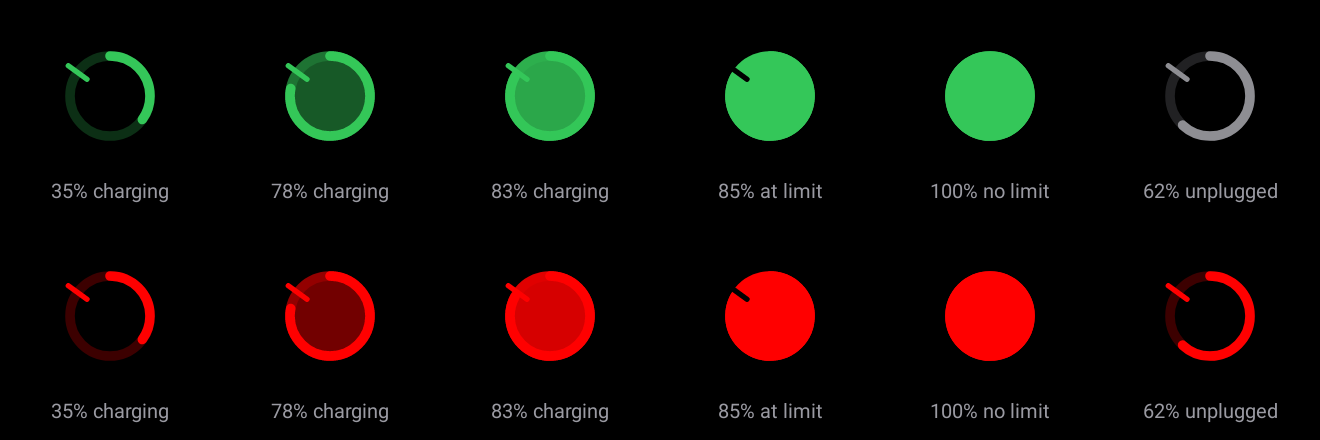
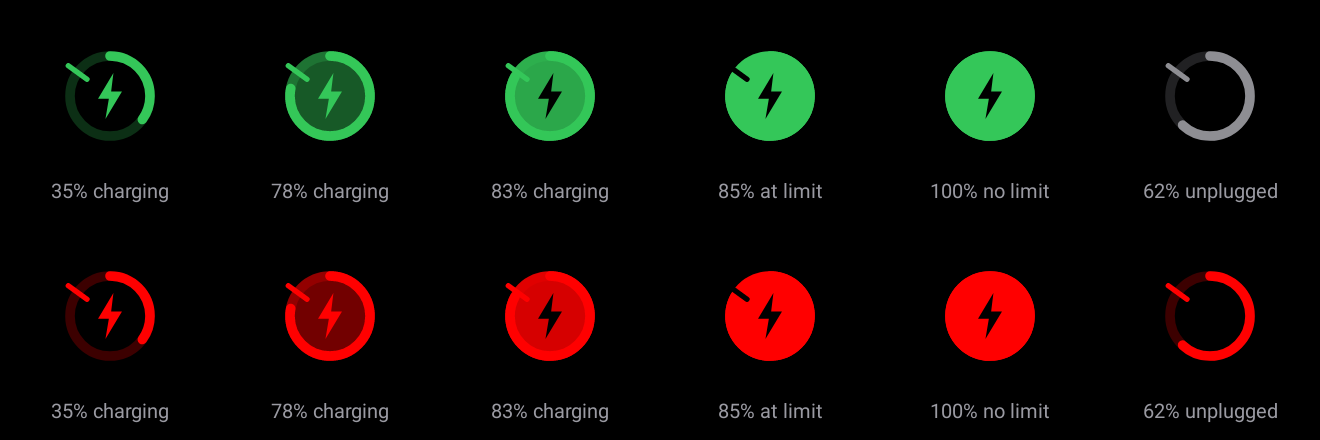
v1.0.6: lightning bolt in the charging ring; option to hide it above 95 %
Bolt shows while plugged in (dark on a mostly-filled centre). Look →
Charging → 'Hide when charged above 95 %' (off by default).

Claude-Session: https://claude.ai/code/session_015pPo9kWBpSfrW4qGbm18DX

diff --git a/app/src/main/java/com/nightstand/BatteryRing.kt b/app/src/main/java/com/nightstand/BatteryRing.kt
@@ -46,6 +46,10 @@ object BatteryRing {
         return ((p - 0.85f) / 0.15f).coerceIn(0f, 0.85f)
     }
 
+    /** "Hide when charged above 95 %" (Look → Charging). Pure; unit-tested. */
+    fun visible(s: BatteryState, hideAbove95: Boolean) = !(hideAbove95 && s.level > 95)
+
+    private val bolt = Paint(Paint.ANTI_ALIAS_FLAG).apply { style = Paint.Style.FILL }
     private val ring = Paint(Paint.ANTI_ALIAS_FLAG).apply { style = Paint.Style.STROKE; strokeCap = Paint.Cap.ROUND }
     private val fill = Paint(Paint.ANTI_ALIAS_FLAG)
 
@@ -68,6 +72,21 @@ object BatteryRing {
         if (f > 0f) {
             fill.color = color; fill.alpha = (255 * f).toInt()
             c.drawCircle(cx, cy, radius + w / 2, fill)
+        }
+        // charging symbol (lightning bolt) while plugged in; dark on a mostly-filled centre
+        if (s.plugged) {
+            bolt.color = if (f >= 0.5f) palette.background else color
+            val h = radius * 1.15f; val wd = h * 0.62f
+            val x0 = cx - wd / 2; val y0 = cy - h / 2
+            c.drawPath(android.graphics.Path().apply {
+                moveTo(x0 + wd * 0.62f, y0)
+                lineTo(x0 + wd * 0.08f, y0 + h * 0.56f)
+                lineTo(x0 + wd * 0.46f, y0 + h * 0.56f)
+                lineTo(x0 + wd * 0.34f, y0 + h)
+                lineTo(x0 + wd * 0.92f, y0 + h * 0.40f)
+                lineTo(x0 + wd * 0.54f, y0 + h * 0.40f)
+                close()
+            }, bolt)
         }
         // tick at the charge limit (only when there is one below 100 %)
         if (s.limit < 100) {

diff --git a/app/src/main/java/com/nightstand/pages/PageContainer.kt b/app/src/main/java/com/nightstand/pages/PageContainer.kt
@@ -205,7 +205,10 @@ class PageContainer(context: Context) : FrameLayout(context) {
 
     override fun dispatchDraw(canvas: Canvas) {
         super.dispatchDraw(canvas)
-        battery?.takeIf { com.nightstand.Prefs.showBatteryRing(context) }?.let { b ->
+        battery?.takeIf {
+            com.nightstand.Prefs.showBatteryRing(context) &&
+                com.nightstand.BatteryRing.visible(it, com.nightstand.Prefs.hideRingAbove95(context))
+        }?.let { b ->
             // Top-left corner, outside the analog clock's circle; drifts with burn-in shift.
             val (sx, sy) = com.nightstand.BurnIn.shiftFor(java.util.Calendar.getInstance().get(java.util.Calendar.MINUTE), 8 * density)
             val rr = 11 * density

diff --git a/app/src/main/java/com/nightstand/ui/LookTab.kt b/app/src/main/java/com/nightstand/ui/LookTab.kt
@@ -137,6 +137,10 @@ fun LookTab(s: SettingsScope) {
                         if (limit < 100) "\nCharge limit learned: $limit %" else "\nNo charge limit seen yet") {
                     Switch(ring, { ring = it; Prefs.setShowBatteryRing(c, it) })
                 }
+                var hide95 by remember { mutableStateOf(Prefs.hideRingAbove95(c)) }
+                SettingRow("Hide when charged above 95 %", "Show the ring only while it's still charging up") {
+                    Switch(hide95, { hide95 = it; Prefs.setHideRingAbove95(c, it) }, enabled = ring)
+                }
             }
 
             SectionLabel("Alarms & timers")

diff --git a/app/src/test/java/com/nightstand/BatteryRingTest.kt b/app/src/test/java/com/nightstand/BatteryRingTest.kt
@@ -38,6 +38,12 @@ class BatteryRingTest {
         assertEquals(1f, BatteryRing.fillFraction(BatteryState(100, true, false, 100)), 0f)
     }
 
+    @Test fun hideAbove95() {
+        assertTrue(BatteryRing.visible(BatteryState(96, true, false, 100), hideAbove95 = false))
+        assertTrue(!BatteryRing.visible(BatteryState(96, true, false, 100), hideAbove95 = true))
+        assertTrue(BatteryRing.visible(BatteryState(95, true, true, 100), hideAbove95 = true)) // "above" 95: 95 still shows
+    }
+
     /** Review sheet: build/previews/battery-ring.png */
     @Test fun render() {
         val cases = listOf(

diff --git a/app/src/main/java/com/nightstand/Prefs.kt b/app/src/main/java/com/nightstand/Prefs.kt
@@ -137,4 +137,7 @@ object Prefs {
 
     fun showBatteryRing(c: Context) = sp(c).getBoolean("showBatteryRing", true)
     fun setShowBatteryRing(c: Context, v: Boolean) = sp(c).edit().putBoolean("showBatteryRing", v).apply()
+
+    fun hideRingAbove95(c: Context) = sp(c).getBoolean("hideRingAbove95", false)
+    fun setHideRingAbove95(c: Context, v: Boolean) = sp(c).edit().putBoolean("hideRingAbove95", v).apply()
 }
